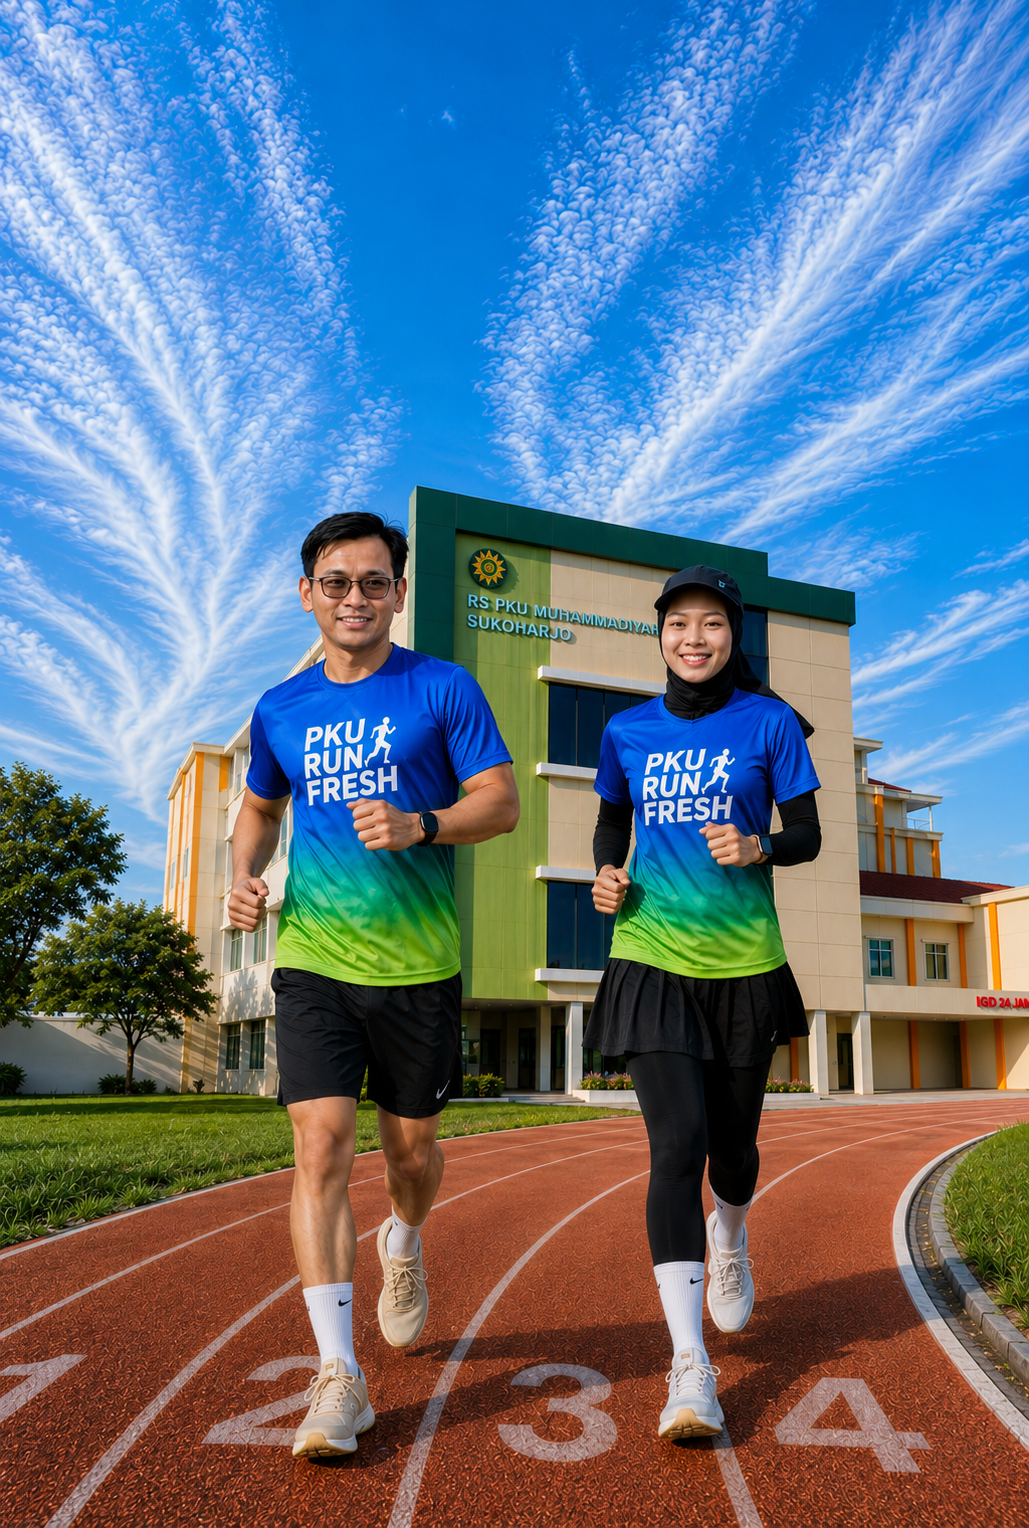
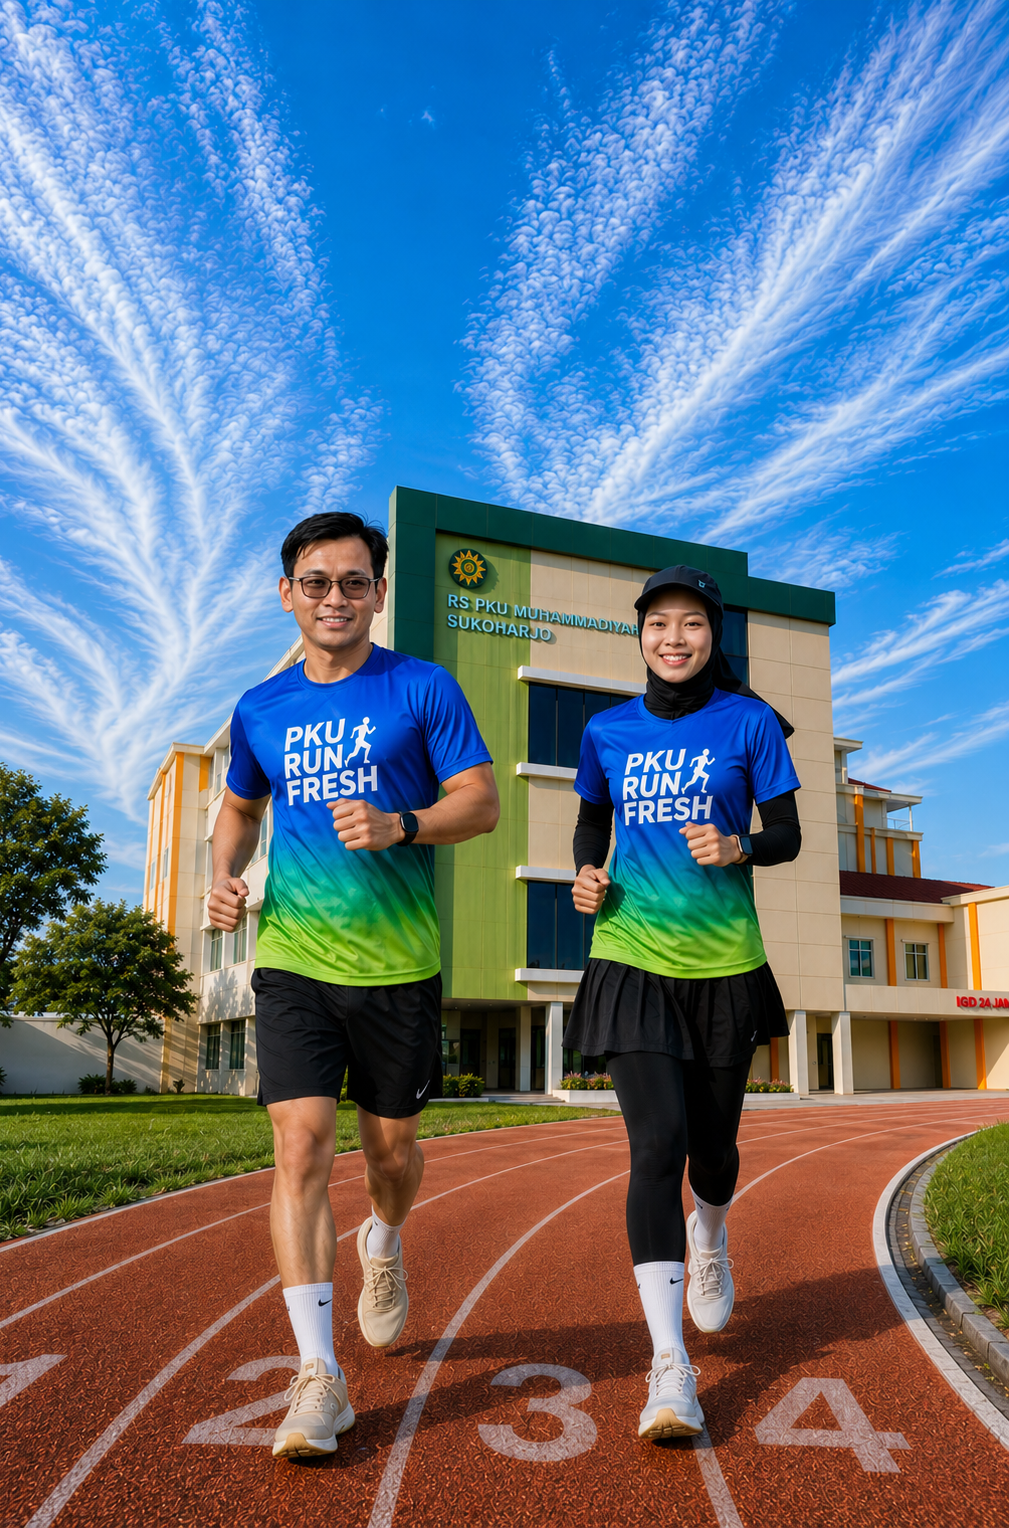
up

diff --git a/src/components/funrun/SectionsTop.tsx b/src/components/funrun/SectionsTop.tsx
@@ -8,6 +8,7 @@ import hero20 from "@/assets/hero20.png";
 import hero21 from "@/assets/hero21.png";
 import hero10 from "@/assets/hero10.png";
 import hero11 from "@/assets/hero17.png";
+import hero30 from "@/assets/hero30.png";
 
 export function Hero() {
   const [offset, setOffset] = useState(0);
@@ -43,7 +44,7 @@ export function Hero() {
           width={1920}
           height={1280}
           className="h-[115%] w-full scale-105 object-cover blur-[0.5px]"
-          style={{ transform: `translateY(-130px)` }}
+          style={{ transform: `translateY(-70px)` }}
         />
       </div>
 
@@ -359,7 +360,7 @@ export function TotalPrize() {
       {/* BACKGROUND */}
       <div className="absolute inset-0 -z-30 overflow-hidden">
         <img
-          src={hero21}
+          src={hero30}
           alt=""
           width={1920}
           height={1280}

diff --git a/src/routes/index.tsx b/src/routes/index.tsx
@@ -18,7 +18,7 @@ import {
   Sponsors,
 } from "@/components/funrun/SectionsBottom";
 
-const title = "Pku Run Fresh 2026";
+const title = "Pkufreshrun26";
 const description =
   "Fun Run 5K & 2.5K Milad RS PKU Muhammadiyah Sukoharjo, 18 November 2026. Total hadiah puluhan juta, jersey, medali, dan doorprize. Daftar sekarang!";
 
